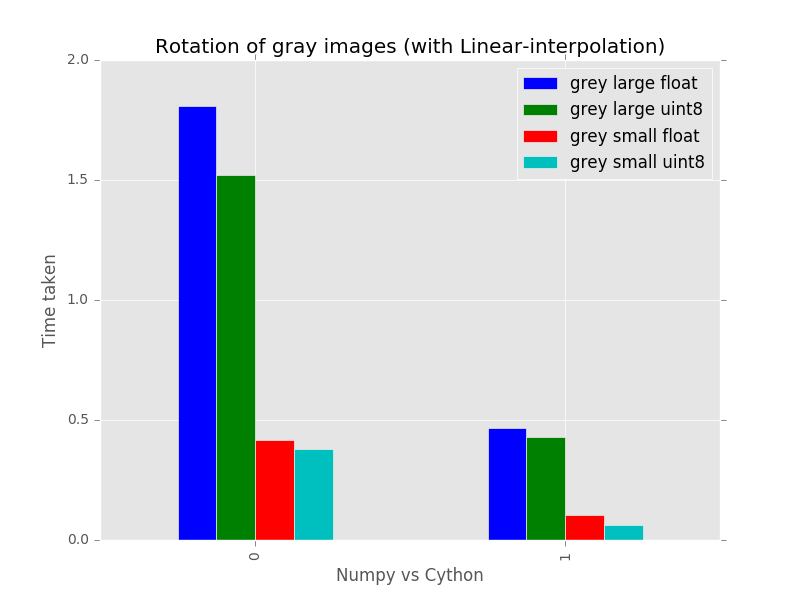
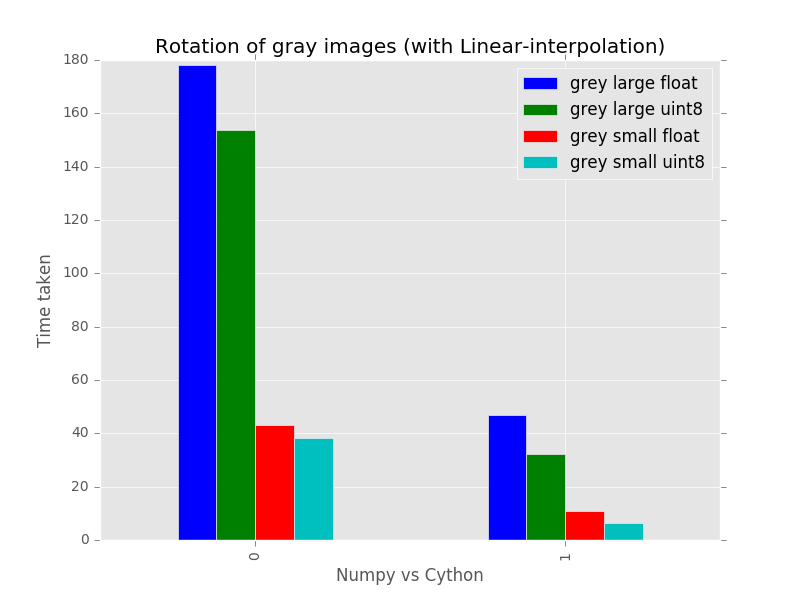
update to report

diff --git a/benchmark.py b/benchmark.py
@@ -37,7 +37,7 @@ custom_stream = sys.stdout
 
 # config vars
 _PLOT = True
-_ITER_NUM = 100
+_ITER_NUM = 1
 _result_timings = {}
 
 

diff --git a/README.md b/README.md
@@ -23,10 +23,12 @@ We have three implementation of these algorithms for benchmarking:
 The `setup.py` file will be updated soon...)
 
 ## Environment
-+ Windows 10
++ Windows 10 (or Ubuntu 14.04)
 + Python 3.4.3
 + Cython 0.23.4
 + CUDA 7.5
++ Visual Studio 2015
+
 
 ## Dependencies
 ```sh
@@ -49,6 +51,8 @@ python benchmark.py
 ## Benchmark results
 Below are the results (Smaller the better as time taken is the y axis)
 
+The code was run for 100 iterations you cn adjust it with `_ITER_NUM` variable.
+
 + **Rotate with no interpolation**
 
 |                                                                                   |                                                                                 |
@@ -69,4 +73,22 @@ Below are the results (Smaller the better as time taken is the y axis)
 |--------------------------------------------------------------------------------------|------------------------------------------------------------------------------------|
 |![Not available check Report folder](Report/SubsamplingGray.png?raw=true "Gray image")|![Not available check Report folder](Report/SubsamplingRGB.png?raw=true "RGB image")|
 
+## Output of algorithms
 
++ **Rotate with no interpolation**
+
+![Not available check Report folder](Report/RotateNNtest_image_rgb_small_uint8.png?raw=true "Gray image")
+
++ **Rotate with linear interpolation**
+
+![Not available check Report folder](Report/RotateLintest_image_grey_small_uint8.png?raw=true "Gray image")
+
++ **Subsampling by factor of 2**
+
+![Not available check Report folder](Report/SubSamplingtest_image_grey_small_float.png?raw=true "Gray image")
+
+## Unittest log
+
+```txt
+
+```
